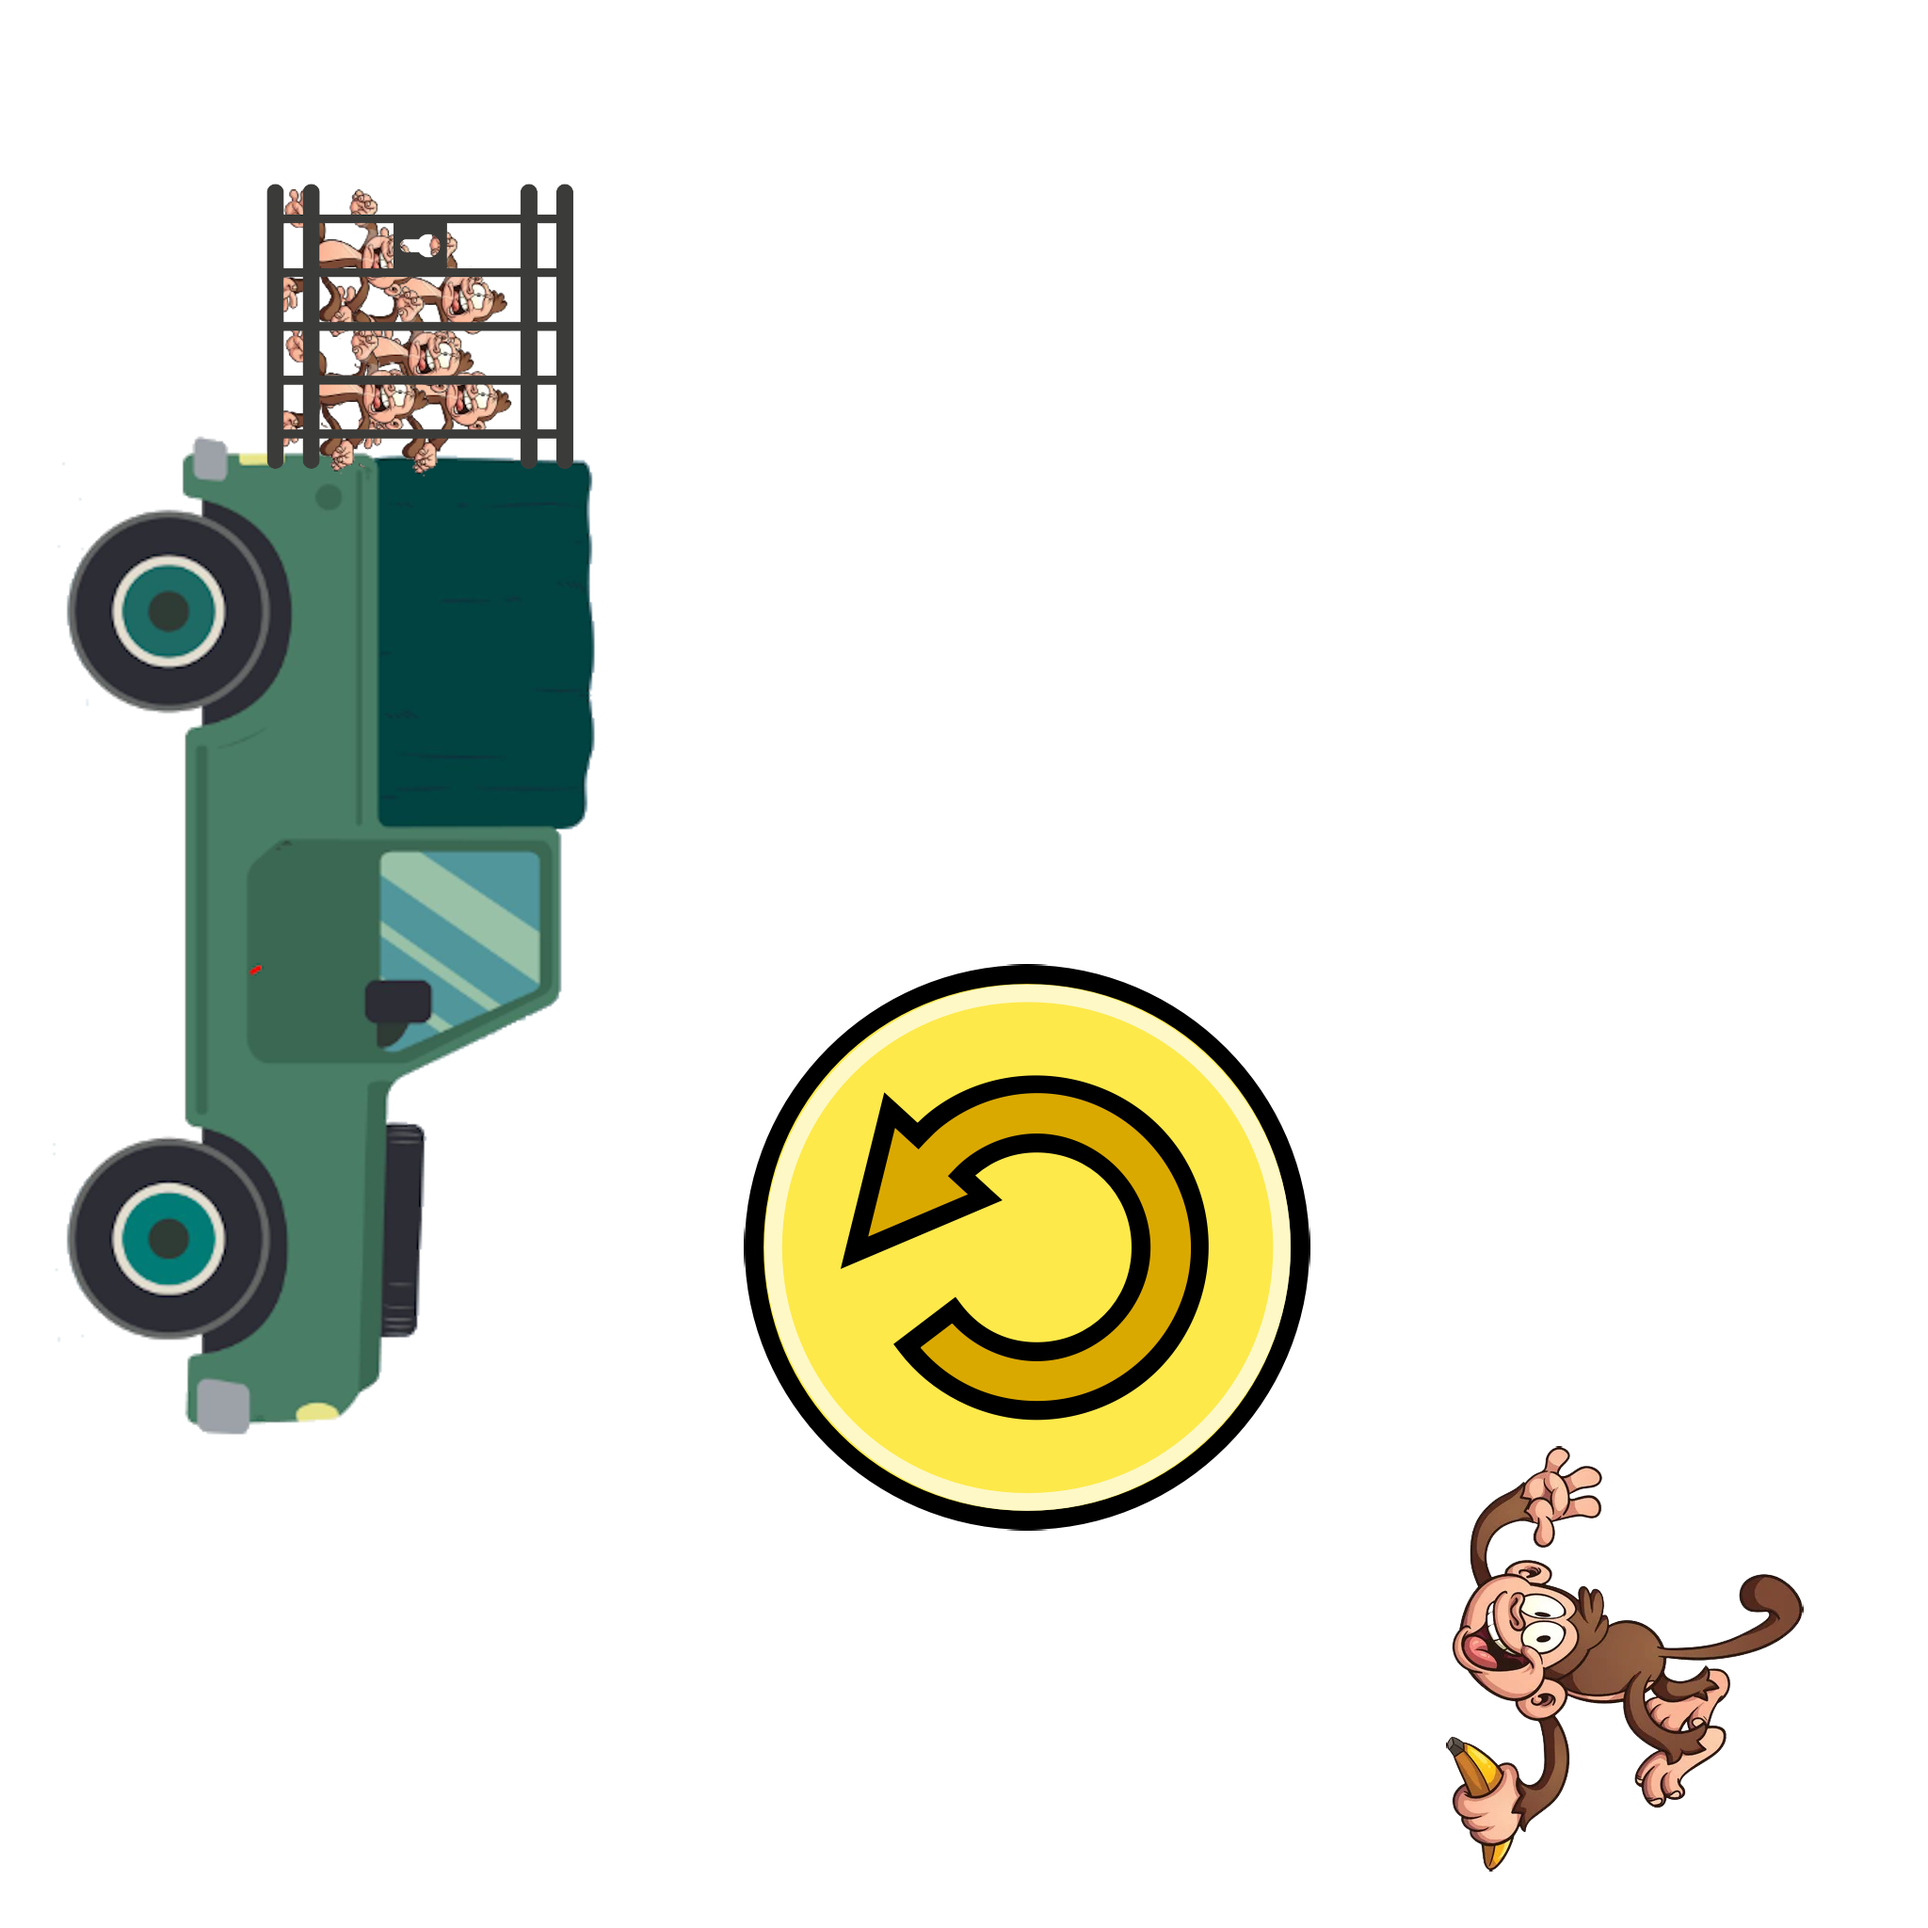
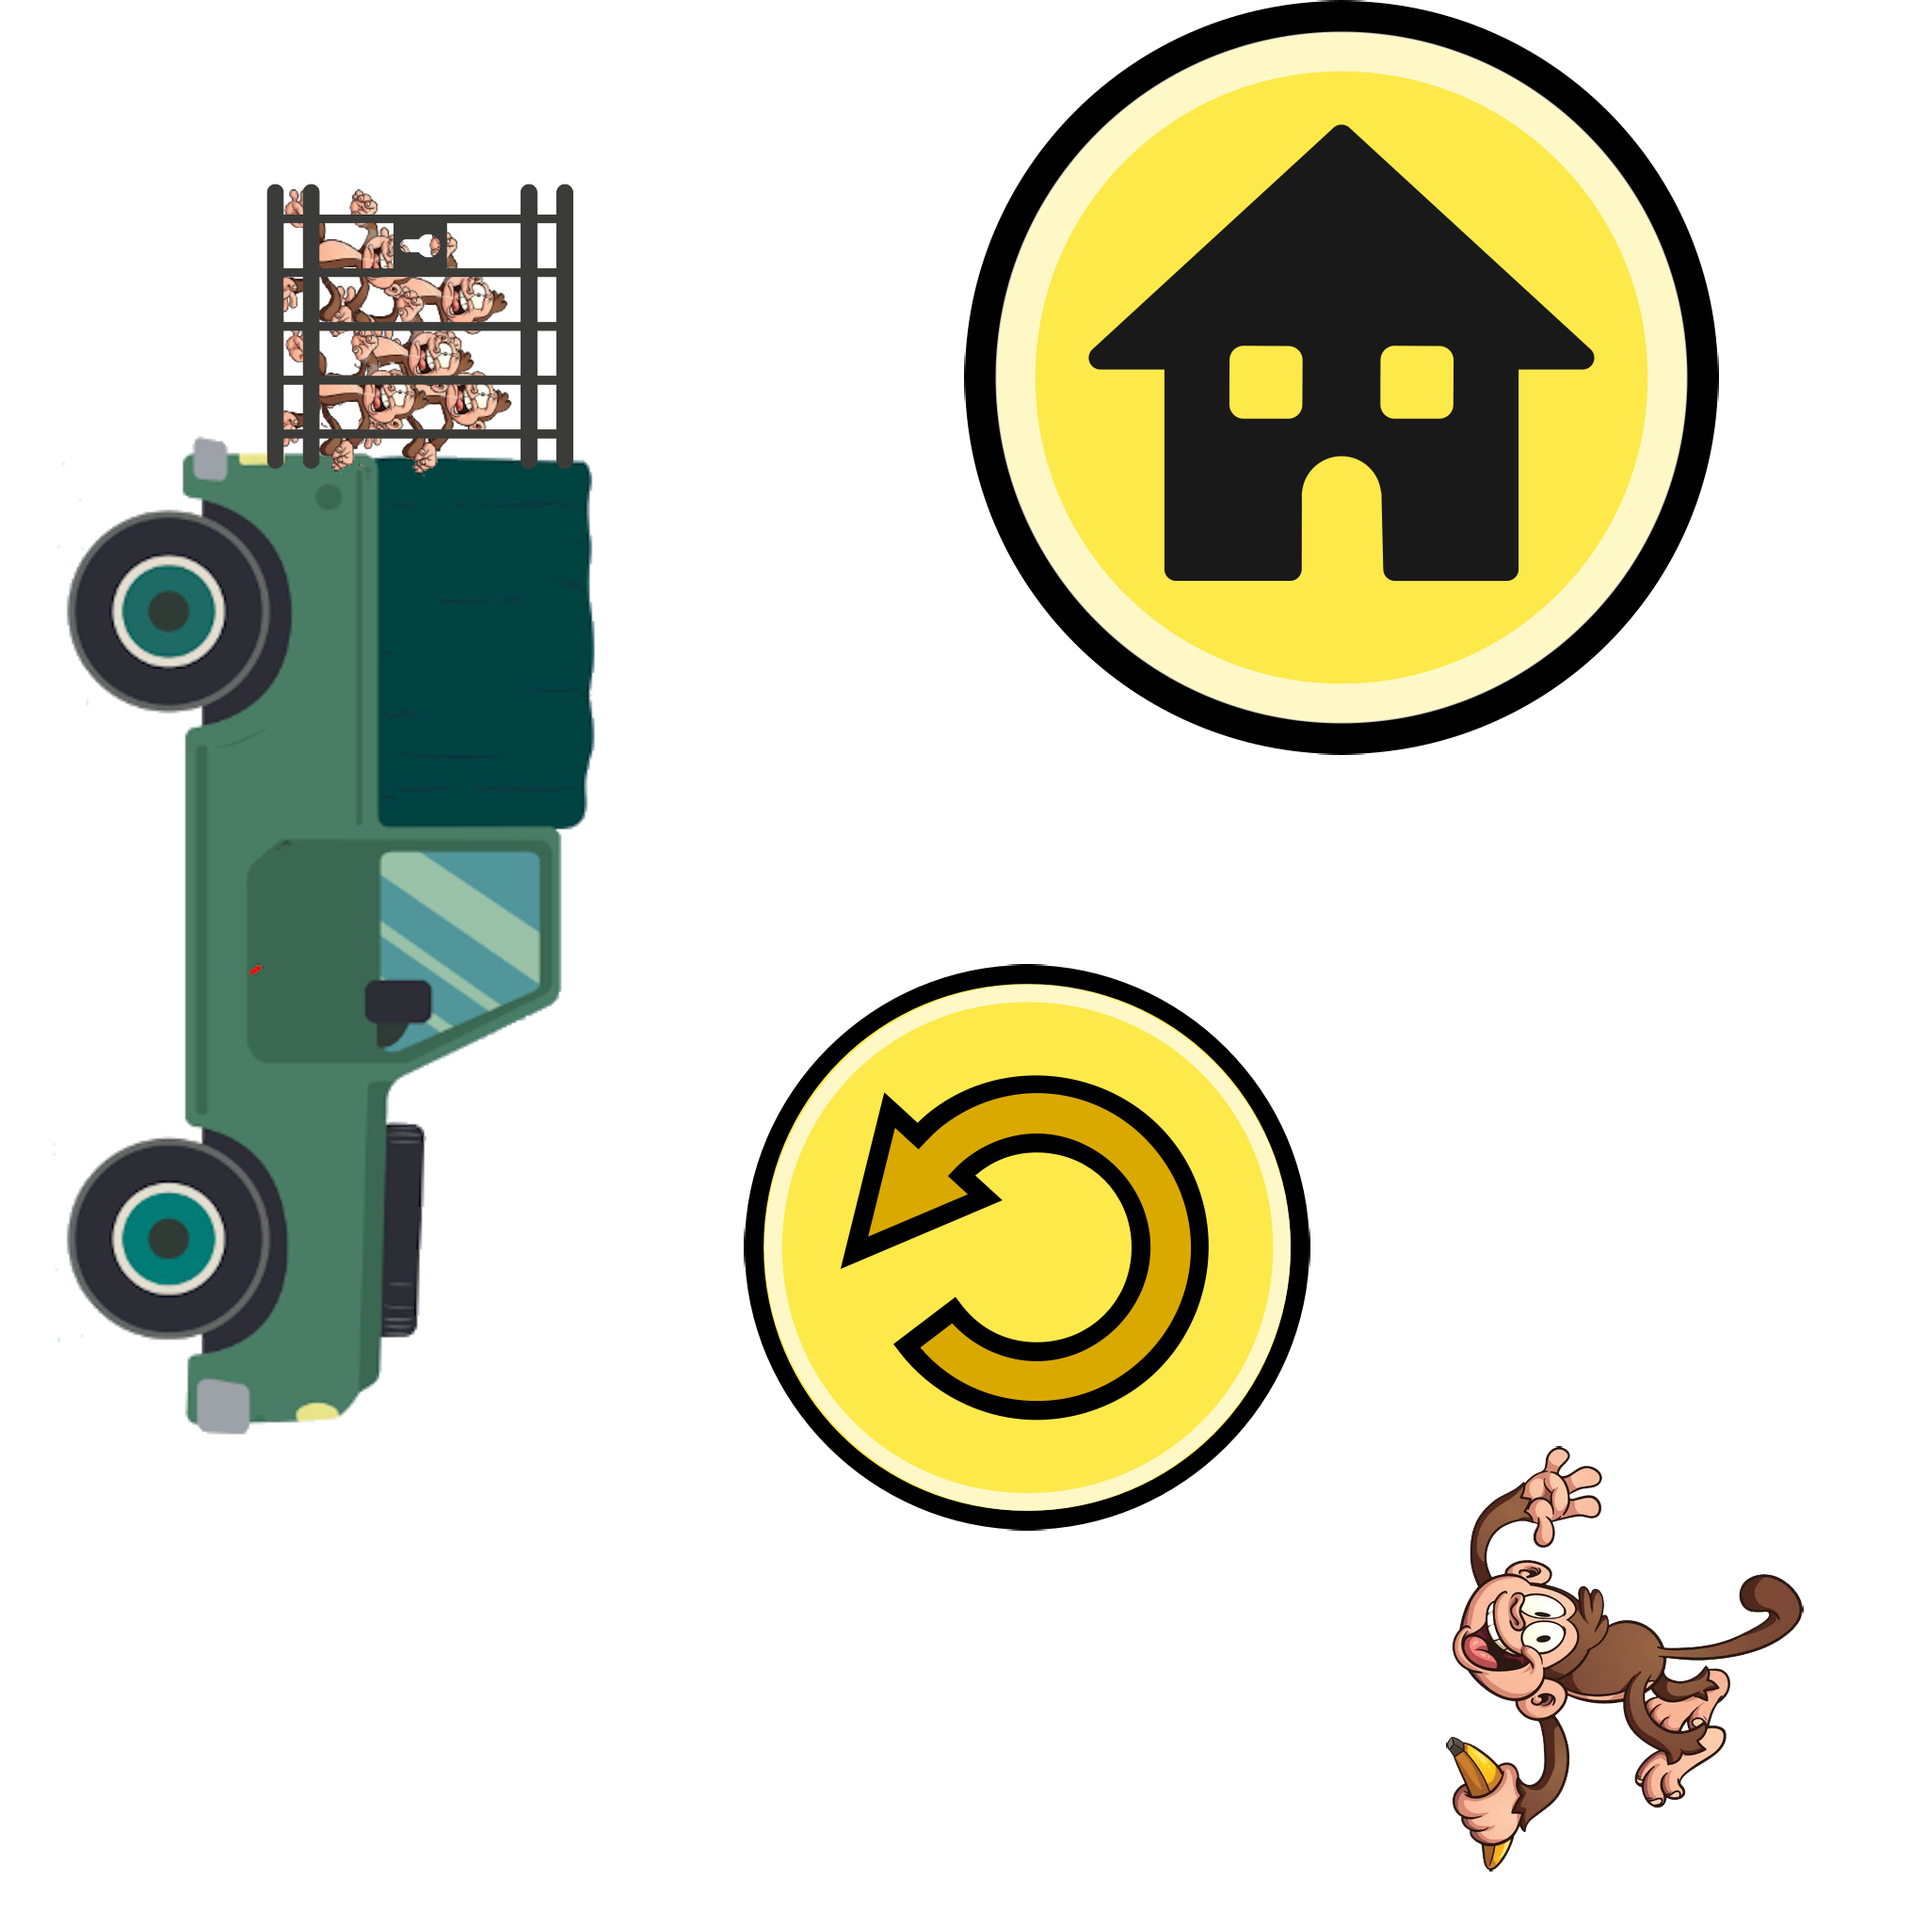
chido

Changed region(s): [[0.5, 0.0, 0.9062, 0.4062]]

diff --git a/scripts/c3runtime.js b/scripts/c3runtime.js
@@ -3922,12 +3922,13 @@ self.C3_GetObjectRefTable = function () {
 		C3.Plugins.Sprite.Acts.Destroy,
 		C3.Behaviors.Platform.Cnds.OnLand,
 		C3.Plugins.System.Acts.SetBoolVar,
-		C3.Plugins.Sprite.Acts.SetPos,
+		C3.Plugins.Sprite.Acts.SetY,
 		C3.Plugins.Text.Acts.SetPos,
 		C3.Plugins.LocalStorage.Acts.CheckItemExists,
 		C3.Plugins.System.Acts.AddVar,
 		C3.Plugins.Touch.Cnds.IsTouchingObject,
 		C3.Plugins.System.Acts.RestartLayout,
+		C3.Plugins.System.Acts.GoToLayout,
 		C3.Plugins.System.Cnds.OnLayoutStart,
 		C3.Plugins.System.Acts.ResetGlobals,
 		C3.Plugins.LocalStorage.Cnds.OnItemExists,
@@ -3937,7 +3938,6 @@ self.C3_GetObjectRefTable = function () {
 		C3.Plugins.TiledBg.Cnds.CompareX,
 		C3.Plugins.TiledBg.Acts.Destroy,
 		C3.Plugins.Touch.Cnds.OnTouchStart,
-		C3.Plugins.System.Acts.GoToLayout,
 		C3.Plugins.LocalStorage.Exps.ItemValue
 	];
 };
@@ -3964,6 +3964,8 @@ self.C3_JsPropNameTable = [
 	{LocalStorage: 0},
 	{TextHighScore: 0},
 	{Sprite3: 0},
+	{HomeBtn: 0},
+	{Sprite4: 0},
 	{max_x: 0},
 	{game_speed: 0},
 	{next_platform: 0},
@@ -4134,8 +4136,8 @@ self.C3_ExpressionFuncs = [
 		},
 		() => "Crunch",
 		() => "Damage",
-		() => 360,
 		() => 240,
+		() => 360,
 		() => 80,
 		() => "Score",
 		() => 20,

diff --git a/index.html b/index.html
@@ -2,7 +2,7 @@
 <html>
 <head>
 <meta charset="UTF-8">
-<title>Mokey Runner</title>
+<title>Lost Monkey</title>
 <meta name="viewport" content="width=device-width, initial-scale=1.0, maximum-scale=1.0, minimum-scale=1.0, user-scalable=no">
 
 <meta name="generator" content="Scirra Construct">
